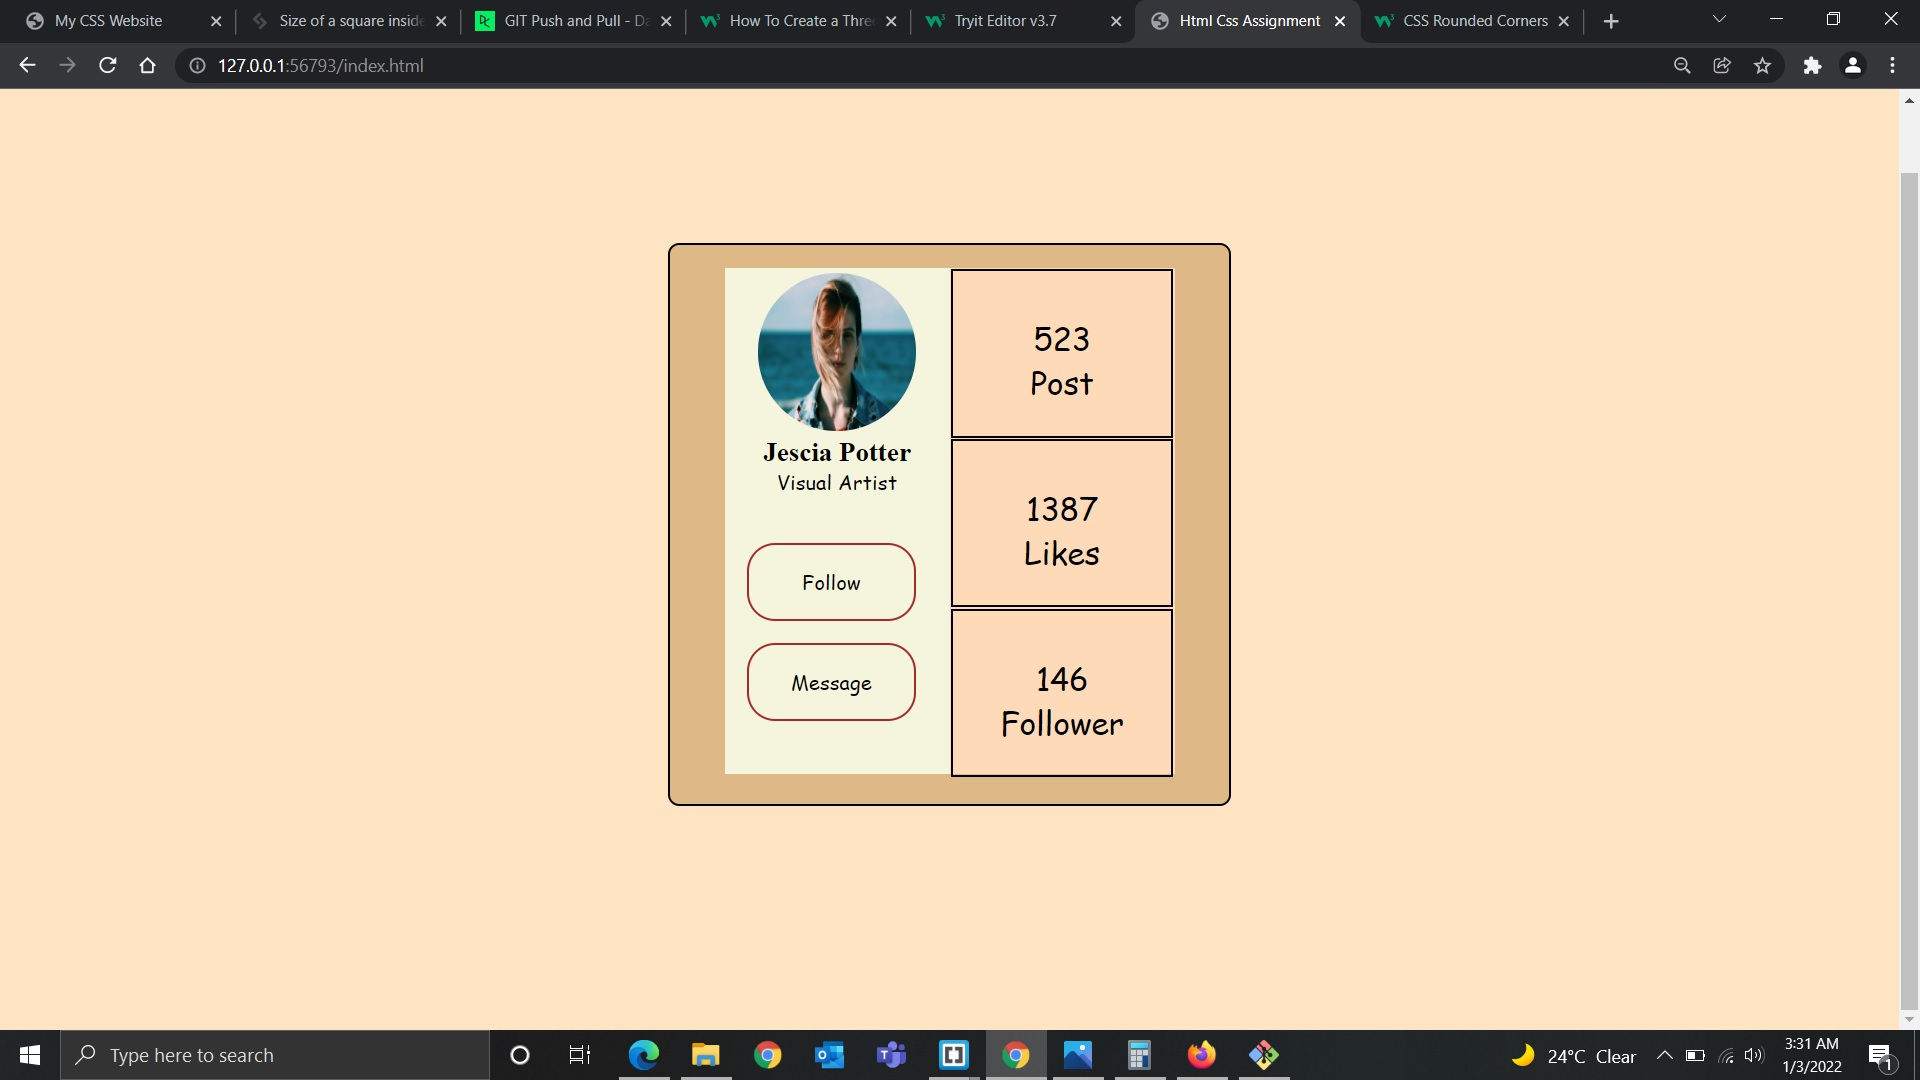
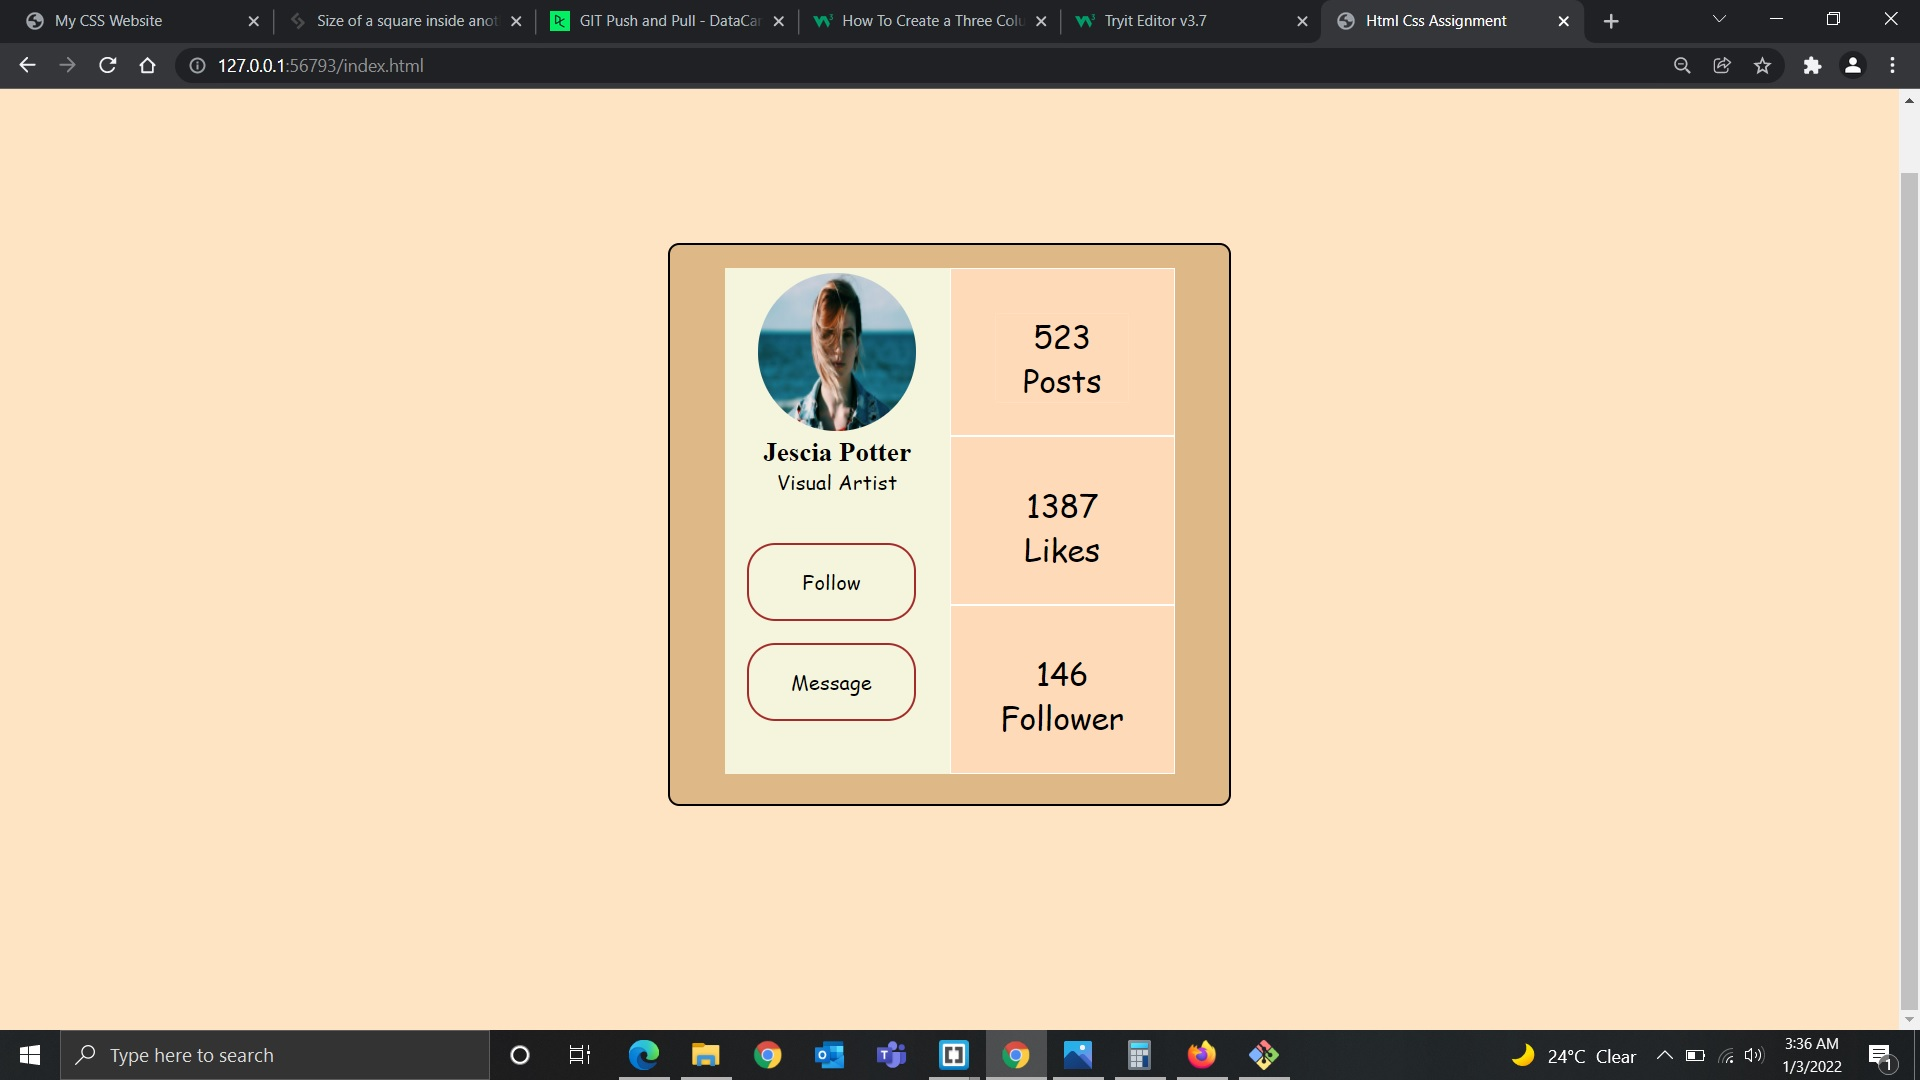
final commit

diff --git a/index.html b/index.html
@@ -29,7 +29,7 @@
                         
                         <div class="rol">
                         <center>
-                        <p> 523 Post</p>
+                        <p> 523 Posts</p>
                         </center>
                         </div>
                         <div class="rol">

diff --git a/styles.css b/styles.css
@@ -60,8 +60,8 @@
 .rol {
     height: 33.33%;
     float: top;
-    margin: 1px;
-    border: 2px solid black;
+    
+    border: 1px solid white;
     padding: 20%;
 }
 
